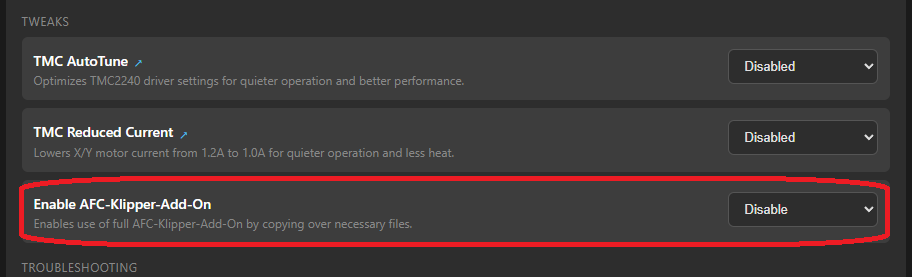
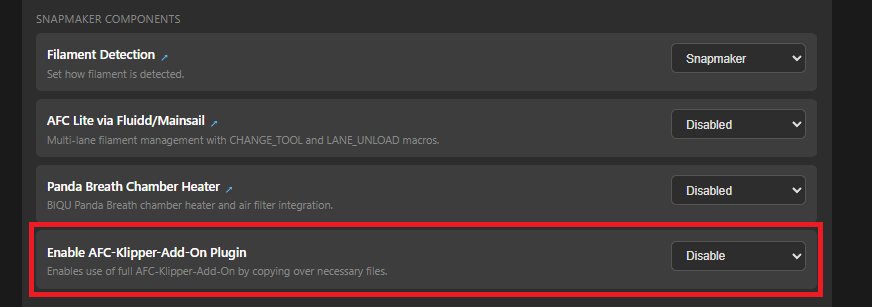
Updating Snapmaker U1 documentation from users feedback - Updated image for extended firmware for enabling AFC - Added note about needing to use buffer in ramming mode - Added note about needing to use u1-klipper on snapmaker u1 page when flashing MCUs - Added documentation for enable_standalone_pur

Changed region(s): [[0.0, 0.1155, 0.9908, 0.9819], [0.031, 0.1444, 0.5264, 0.3177], [0.031, 0.0289, 0.2167, 0.1155]]

diff --git a/docs/toolchanger/snapmaker.md b/docs/toolchanger/snapmaker.md
@@ -18,6 +18,8 @@ Since Snapmaker has a custom and heavily modified version of Klipper, the follow
 - Automatic Flow Calibration, this can be done manually (see [Manual flow calibration with AFC installed](#manual-flow-calibration-with-afc-installed) section below)- Automatic color mapping to toolhead/lane based off colors in print job
 - AFC currently does not control side feeders
 - XYZ calibration has not been tested yet, so you may need to disable AFC before re-running XYZ calibration offset
+- Starting prints through Snapmaker Orca has not been tested and may not work correctly, start prints from fluidd/mainsail.
+- Starting prints through screen may not always work, start prints from fluidd/mainsail.
 
 And much more that has not been discovered yet.
 
@@ -28,10 +30,13 @@ Commenting this out for now since we have found that the PTFE inside can move
 --8<-- "includes/snapmaker-u1-ptfe.md"
 -->
 
-When using extruders in __standalone__ mode, you can use feeders to feed filament to your extruder. Once that is done manually push filament until sensor is triggered. AFC will then automatically heat the toolhead and load filament to nozzle. Currently the automatic loading with the feeders does not work. But in the future support will be added for doing this routine.
+- When using extruders in __standalone__ mode, you can use feeders to feed filament to your extruder. Once that is done manually push filament until sensor is triggered. AFC will then automatically heat the toolhead and load filament to nozzle. Currently the automatic loading with the feeders does not work. But in the future support will be added for doing this routine.
 
-Snapmaker U1 Extended Firmware by paxx12 does support CAN bus and its enabled by default, but you need to use a USB to CAN bus adapter or use a MCU in USB to CAN bridge mode. When setting up your MCU for CAN, be sure to specify `canbus_interface: can1` since CAN0 is the internal CAN bus chip that currently does not work. Should look something like the picture below:  
+- Snapmaker U1 Extended Firmware by paxx12 does support CAN bus and its enabled by default, but you need to use a USB to CAN bus adapter or use a MCU in USB to CAN bridge mode. When setting up your MCU for CAN, be sure to specify `canbus_interface: can1` since CAN0 is the internal CAN bus chip that currently does not work. Should look something like the picture below:  
 ![can1_bus_mcu](../assets/images/can1_bus_config.png)
+
+- When flashing your automatic filament changer MCU, make sure you use [u1-klipper](https://github.com/Snapmaker/u1-klipper) github repository.
+- When using automatic filament changes on your U1, you need to enable [buffer ramming](../installation/buffer-ram-sensor.md#required-configuration) as AFC plugin does not use the current toolhead sensor when moving(homing) filament to the toolhead.
 
 ### Updating AFC
 Update instructions can be found [here](../updates/updates.md#snapmaker-u1-printer) for updating AFC-Klipper-Add-On on your U1.

diff --git a/docs/updates/updates.md b/docs/updates/updates.md
@@ -51,6 +51,7 @@
     
     AFC updates for Snapmaker U1 will be provided through new extended firmware binaries by the AFCProject team. Follow the step below to update once you have the new binary file:
 
+    1. If you are using a USB to CAN bus adapter, unplug this first as its been found that when flashing the new binary during the MCU update process it can put the USB to CAN bus adapter in a weird state.
     1. Navigate to `<ip-address>/firmware-config` page  
     1. Scroll to the bottom of the page and in the __Firmware Upgrade__ box, click in the `Click to select or drag & drop file` box.  
     ![u1_drag_drop](../assets/images/u1/afc_u1_update_file.png)  
@@ -58,7 +59,7 @@
     ![u1_open](../assets/images/u1/afc_u1_select_file.png)
     1. Once file is selected, _Upload & Upgrade__ becomes clickable, click Upload & Upgrade to start update process, then press Confirm to proceed with the update.
     ![u1_update_go](../assets/images/u1/afc_u1_upload_and_upgrade.png)
-    1. Once update is done and printer is rebooted, please go back to firmware-config page (`<ip_address>/firmware-config`) and re-enable AFC.
+    1. Once update is done and printer is rebooted, please go back to firmware-config page (`<ip_address>/firmware-config`) and re-enable AFC. This is also a good time to plug back in your USB to CAN bus adapter if you unplugged it.
     1. Navigate down to tweaks section and in the drop down for Enable AFC-Klipper-Add-On, choose `Enable`, then select `Confirm`
     ![afc_enable](../assets/images/u1/afc_u1_enable.png)
     1. Once that is done and the box shows `SUCCESS: Setting updated successfully`, navigate back to your printers fluidd interface. If enable was done correctly, the interface should look like the same before you updated.

diff --git a/docs/installation/calibration.md b/docs/installation/calibration.md
@@ -5,9 +5,18 @@
 `AFC_CALIBRATION` starts the process of a guided calibration process. Prompts will show in the GUI that will walk you
 through the calibration steps. Make sure you run through both lane and bowden calibration.
 
-For ViViD units, lane calibration does not need to be redone, since lanes are automatically calibrated once first 
-inserting filament. If you would like to redo calibration, then select lane calibration for the lanes you want to calibrate.
-AFC will eject each selected lane, once you re-insert filament for those lanes they will be re-calibrated to the load sensor.
+
+=== "ViViD"
+    For ViViD units, lane calibration does not need to be redone, since lanes are automatically calibrated once first 
+    inserting filament. If you would like to redo calibration, then select lane calibration for the lanes you want to calibrate.
+    AFC will eject each selected lane, once you re-insert filament for those lanes they will be re-calibrated to the load sensor.
+
+=== "Calibrating on Snapmaker U1"
+    When calibrating automatic filament changers on a Snapmaker U1, you need to first fully home your printer. The reason this needs
+    to be done is because AFC plugin moves the toolhead to Y120 since this is where the toolhead is moved to when loading filament to the toolhead.
+    This movement to Y120 helps filament not get stuck in the toolhead when loading.
+
+Calibration is done once all lanes and bowden length has been calibrated successfully.
 
 ## Manual Calibration
 

diff --git a/docs/initial-startup/03-install-plugin.md b/docs/initial-startup/03-install-plugin.md
@@ -166,7 +166,8 @@
     <!--  Removing below until the changes actually make it into the extended firmware repo 1. Navigate to Snapmaker U1 Extended Firmware [release page](https://github.com/paxx12-snapmaker-u1/SnapmakerU1-Extended-Firmware/releases) and download latest binary. -->
     1. Once binary is downloaded follow [Snapmaker U1 Extended Firmware installation instructions](https://snapmakeru1-extended-firmware.pages.dev/install)
     1. Once installation is done, to enable AFC-Klipper-Add-On open your web browser and navigate to `http://<ip-address>/firmware-config`. Be sure to replace `<ip-address>` with your Snapmaker U1 IP address.
-    1. Navigate down to tweaks section and in the drop down for Enable AFC-Klipper-Add-On, choose `Enable`, then select `Confirm`
+    1. Navigate down to Snapmaker Components section and in the drop down for Enable AFC-Klipper-Add-On Plugin, choose `Enable`, then select `Confirm`.  
+        __Note: Do not enable `AFC Lite via Fluidd/Mainsail` version, this is not the full version of AFC.__
     ![afc_enable](../assets/images/u1/afc_u1_enable.png)
     1. Once that is done and the box shows `SUCCESS: Setting updated successfully`, navigate back to your printers fluidd interface. If enable was done correctly, the T0-T31 tools should now only show T0-T3 and your AFC panel should look something like below and there should not be any Klipper errors.
     ![afc_enabled](../assets/images/u1/afc_u1_enabled.png)

diff --git a/docs/toolchanger/overview.md b/docs/toolchanger/overview.md
@@ -41,4 +41,4 @@ throughout this guide are based on an HTLF unit with the following layout:
 | **Direct** | A single lane connects directly to a dedicated toolhead with no hub in between. Toolhead loading is triggered manually or via a toolchange. |
 | **Direct Load** | Same as direct, but AFC automatically loads filament to the toolhead when a spool is inserted into the lane. |
 | **Hub** | Two or more lanes from a unit share a single toolhead via a hub. |
-| **Standalone** | A toolchanger toolhead has no AFC unit/lane attached; filament is loaded manually once filament is inserted and toolhead sensor is triggered. |
+| **Standalone** | A toolchanger toolhead has no AFC unit/lane attached; filament is loaded manually once filament is inserted and toolhead sensor is triggered. After a standalone toolhead is picked up, AFC will purge the first time if `poop` is enabled. This can also be disabled by setting `enable_standalone_purge: False` in `AFC.cfg` or per `AFC_extruder` config. |

diff --git a/docs/configuration/AFC.cfg.md b/docs/configuration/AFC.cfg.md
@@ -320,6 +320,14 @@ force_assign_map: False
 #    Default: False
 #    Setting to True will allow AFC to always override any existing T(n) macros when
 #    mapping lanes during PREP
+enable_standalone_purge: True
+#    Default: True
+#    After loading a standalone tool AFC will purge the first time after the toolhead
+#    is picked up if poop is enabled. This is needed so that the previous filament loaded
+#    is purged out of the nozzle. If you purge standalone toolheads yourself, then this
+#    variable can be set to False.
+#
+#    This variable can also be overridden in each AFC_extruder config section.
 ```
 
 ### Multiple Extruder variables only

diff --git a/docs/configuration/AFC_Hardware.cfg.md b/docs/configuration/AFC_Hardware.cfg.md
@@ -135,6 +135,14 @@ custom_unselect:
 #    Replaces the default KTC UNSELECT_TOOL behavior.
 #
 #    Useful for custom docking, parking, or release routines.
+enable_standalone_purge: True
+#    Default: True
+#    After loading a standalone tool AFC will purge the first time after the toolhead
+#    is picked up if poop is enabled. This is needed so that the previous filament loaded
+#    is purged out of the nozzle. If you purge standalone toolheads yourself, then this
+#    variable can be set to False.
+#
+#    This variable overrides the global `AFC.cfg` value when set here.
 ```
 
 #### LED Settings

diff --git a/docs/toolchanger/slicer_config.md b/docs/toolchanger/slicer_config.md
@@ -11,7 +11,8 @@ In order to use this, change filament gcode should now have the following:
 !!! note
     If this is not changed, operations remain the same as they were
 
-#### Slicer Filament Gcode Section
+#### Slicer Change Filament Gcode Section
+The following should be added to your `Change filament G-code` section.
 ```
 T[next_extruder] PURGE_LENGTH={flush_length} NEW_EXTRUDER_TEMP={new_filament_temp}
 ```
